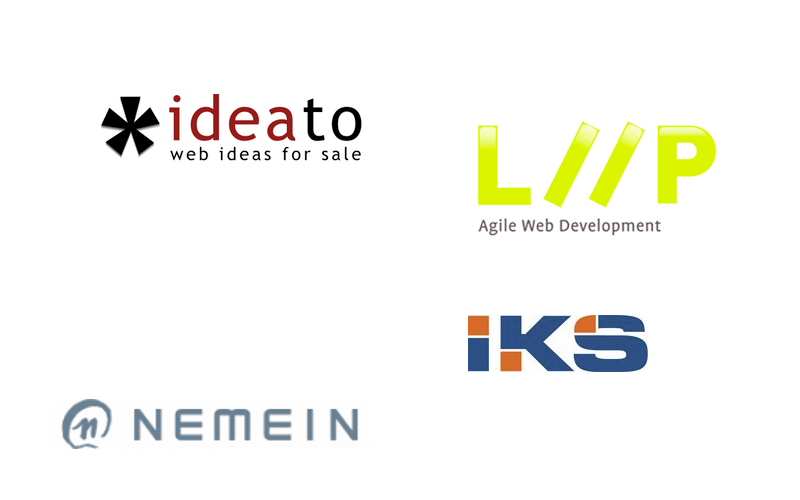
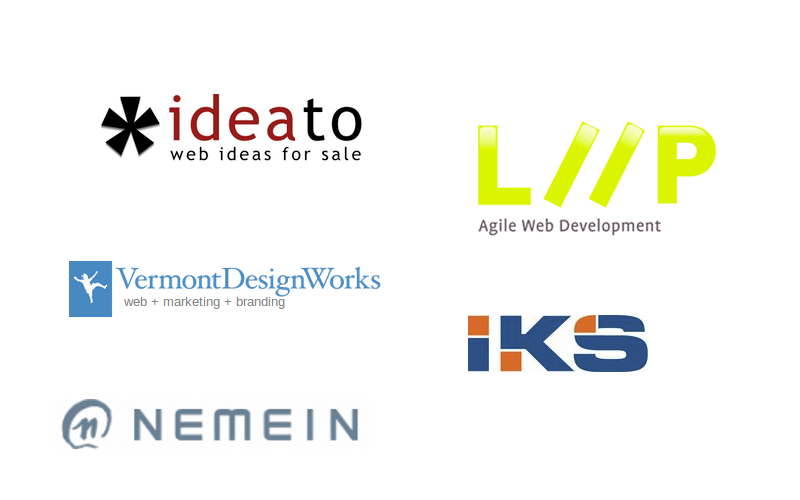
Add Vermont Design Works to cmf slides.

Changed region(s): [[0.0625, 0.51, 0.4688, 0.66]]

diff --git a/src/Cmf/MainBundle/Resources/slides/why_symfony_cmf/why_symfony_cmf.html b/src/Cmf/MainBundle/Resources/slides/why_symfony_cmf/why_symfony_cmf.html
@@ -247,7 +247,7 @@
                 <li>Quiet Storm Solutions is utilizing the CMF and to drive a newly launched Saas CRM service</li>
                 <li>ServerGrove is using the PHP content repository in their <a href="https://github.com/servergrove/KnowledgeBase">KnowledgeBase</a> tool.</li>
                 <li>Liip integrated the CMF as a simple editing solution into Symfony web applications like <a href="http://www.barometredesprix.ch">www.barometredesprix.ch</a>.</li>
-                <li>Eat your own dog food: Liip <a href="http://liip.ch">website</a> is built with the CMF</li>
+                <li>Eat your own dog food: the Liip <a href="http://liip.ch">website</a> and VDW <a href="http://www.vtdesignworks.com">website</a> are built with the CMF</li>
                 <li><a href="http://www.joiz.ch">Joiz</a> uses it for their social media based TV station</li>
                 <li>See our <a href="http://cmf.symfony.com/references">references</a> for a more complete overview</li>
             </ul>
@@ -267,7 +267,7 @@
 
         <div class="slide" style="text-align:center">
             <h1>Several companies and organisations are investing into the effort</h1>
-            <img src="companies.png" alt="Liip, Ideato, Nemein, IKS" />
+            <img src="companies.png" alt="Liip, Ideato, Nemein, IKS, Vermont Design Works" />
         </div>
 
         <div class="slide" style="text-align:center">
